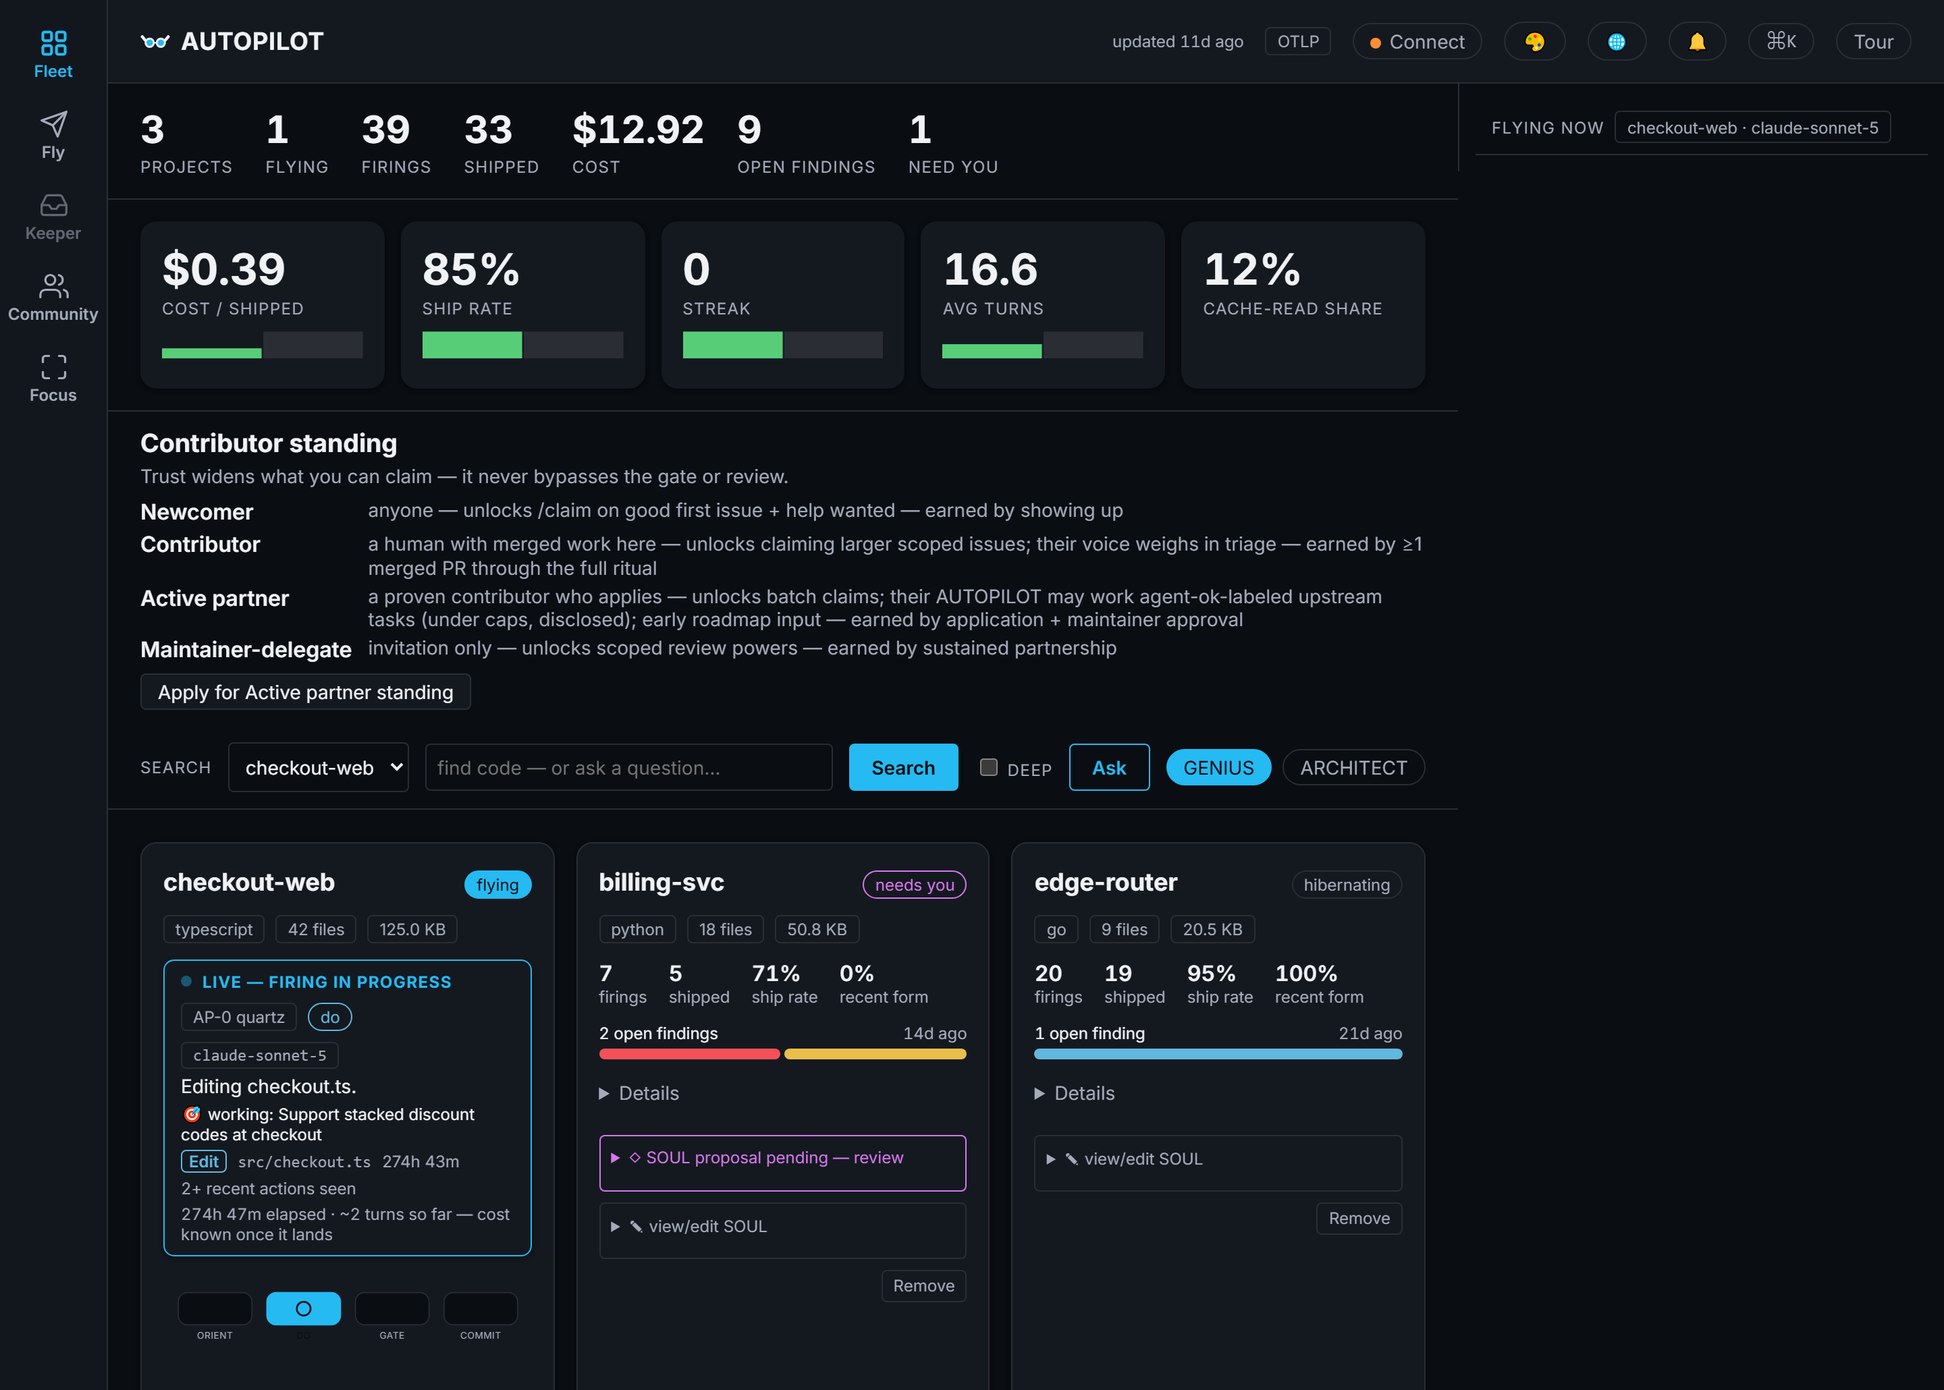
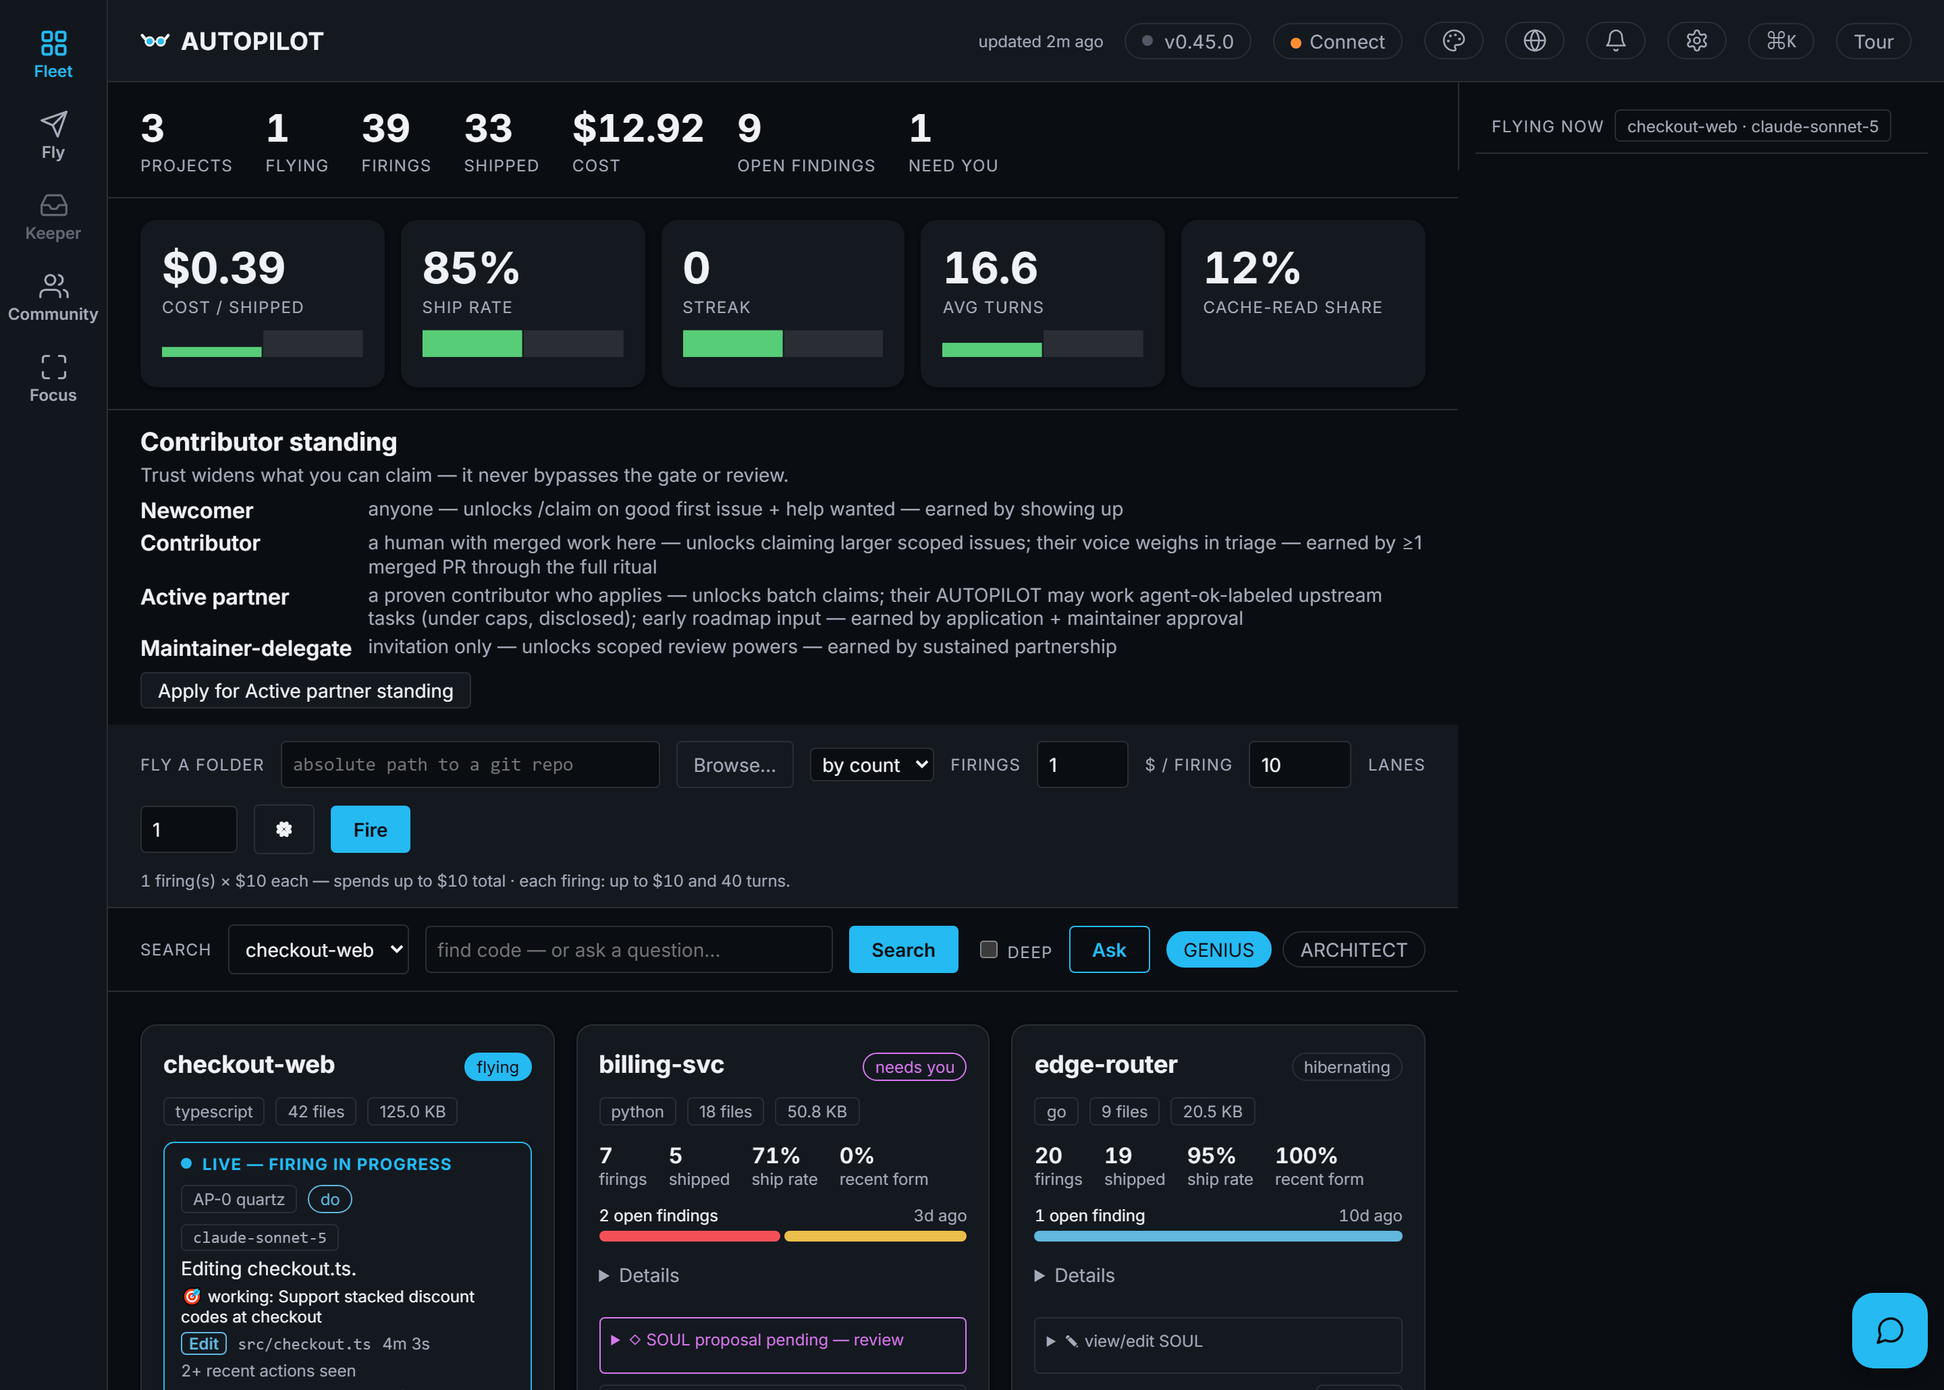
feat(readme): lock on, lucky, fire — the first file sells the flow; the launch button says fire
Epic 0030 slice 1. The README now opens with the promise in one breath (point
it at a folder, press Fire, no prompt on the first launch) and shows the real
flow in three frames of the Fly bar from the populated fixture: a folder
locked on; the Lucky roll with its calibrated plan and the work that fits an
evening; a flight underway at one of four firings. The roll and the flight
are staged through the real client's own routes (the fixture wires neither),
the browser clock is frozen at the fixture's instant, and no operator path
appears. The three shell frames are retaken on the same build (stroke icons,
the version chip, the settings gear). The launch button reads Fire in both
locales, with its tip and the Lucky hint following. The epic records the
first hierarchy finding the frames expose — the Fly bar sits fourth on the
fleet home — and gains slice 5, lock on to a GitHub URL. 277 links checked.

diff --git a/packages/tokens/src/strings.ts b/packages/tokens/src/strings.ts
@@ -341,7 +341,7 @@
  * slice.
  * This slice ends the "`data-tip` hover texts stay English" policy every
  * prior slice restated — for the fly bar, the app's primary action surface.
- * Its persistent controls (Fly it/Pause/Stop, the four form inputs, the
+ * Its persistent controls (Fire/Pause/Stop, the four form inputs, the
  * flight-row status span, the total-progress bar) get `fly*Tip`/
  * `flight*Tip` keys written by `web/features/fly.ts`'s new `setTip()`,
  * which also tags `data-i18n-tip` so `translateDom()`'s new fourth
@@ -587,7 +587,7 @@ const EN_STRINGS = {
   stopAtTotal: 'Stop at total $',
   perFiringBudget: '$ / firing',
   lanes: 'Lanes',
-  flyIt: 'Fly it',
+  flyIt: 'Fire',
   flying: 'Flying…',
   queued: 'Queued…',
   resume: 'Resume',
@@ -1461,13 +1461,13 @@ const EN_STRINGS = {
   resumeFlightOn: 'Resume the flight on {name}',
   flyLuckyAria: "I'm feeling lucky — probe this machine and fill a calibrated launch",
   flyLuckyTip:
-    'Probes this machine (CPU, RAM, cores) and the board, then fills Lanes/Firings/$ with a launch sized to what the computer can carry right now. Filling only — Fly it stays your click.',
+    'Probes this machine (CPU, RAM, cores) and the board, then fills Lanes/Firings/$ with a launch sized to what the computer can carry right now. Filling only — Fire stays your click.',
   luckyNoAnswer: 'Lucky roll failed — no answer from the server.',
   luckyDashboardDown: 'Lucky roll failed — is the dashboard up?',
   luckyNotNow: '🍀 Not now: {reason}',
   luckyNoPlan: 'no plan',
   luckyPlanReady: 'plan ready',
-  luckyPressFlyIt: '🍀 {reason} — press Fly it to launch.',
+  luckyPressFlyIt: '🍀 {reason} — press Fire to launch.',
   luckyFitTitle: '🍀 Work that fits you',
   luckyFitAttentionAria: 'How much attention you have',
   luckyFitEvening: 'one evening',
@@ -1895,7 +1895,7 @@ export const STRINGS: Readonly<Record<LocaleName, Readonly<Record<StringKey, str
     stopAtTotal: 'עצור בסכום כולל של $',
     perFiringBudget: '$ / הפעלה',
     lanes: 'נתיבים',
-    flyIt: 'טוס!',
+    flyIt: 'אש!',
     flying: 'בטיסה…',
     queued: 'בתור…',
     resume: 'המשך',
@@ -2528,13 +2528,13 @@ export const STRINGS: Readonly<Record<LocaleName, Readonly<Record<StringKey, str
     resumeFlightOn: 'חידוש הטיסה על {name}',
     flyLuckyAria: 'יש לי מזל — בדיקת המחשב הזה ומילוי שיגור מכויל',
     flyLuckyTip:
-      'בודק את המחשב הזה (מעבד, זיכרון, ליבות) ואת הלוח, ואז ממלא נתיבים/הפעלות/$ בשיגור בגודל שהמחשב יכול לשאת כרגע. מילוי בלבד — "טוס!" נשאר הלחיצה שלכם.',
+      'בודק את המחשב הזה (מעבד, זיכרון, ליבות) ואת הלוח, ואז ממלא נתיבים/הפעלות/$ בשיגור בגודל שהמחשב יכול לשאת כרגע. מילוי בלבד — "אש!" נשאר הלחיצה שלכם.',
     luckyNoAnswer: 'הגרלת המזל נכשלה — אין תשובה מהשרת.',
     luckyDashboardDown: 'הגרלת המזל נכשלה — האם לוח הבקרה פועל?',
     luckyNotNow: '🍀 לא עכשיו: {reason}',
     luckyNoPlan: 'אין תוכנית',
     luckyPlanReady: 'התוכנית מוכנה',
-    luckyPressFlyIt: '🍀 {reason} — לחצו על "טוס!" כדי לשגר.',
+    luckyPressFlyIt: '🍀 {reason} — לחצו על "אש!" כדי לשגר.',
     luckyFitTitle: '🍀 עבודה שמתאימה לכם',
     luckyFitAttentionAria: 'כמה קשב יש לכם',
     luckyFitEvening: 'ערב אחד',

diff --git a/apps/dashboard/src/web/shell.ts b/apps/dashboard/src/web/shell.ts
@@ -4553,7 +4553,7 @@ ${contextRailHtml(project)}
       <label for="fly-lanes" data-i18n="lanes">Lanes</label>
       <input type="number" id="fly-lanes" name="lanes" min="1" max="8" value="1" />
       <button type="button" id="fly-lucky" aria-label="I'm feeling lucky — probe this machine and fill a calibrated launch" data-i18n-aria="flyLuckyAria"><svg viewBox="0 0 24 24" aria-hidden="true" focusable="false" fill="currentColor"><path d="M12 11.5C9.8 9.6 7.6 8.8 7.7 6.6 7.8 4.6 10.2 3.9 12 6.1 13.8 3.9 16.2 4.6 16.3 6.6 16.4 8.8 14.2 9.6 12 11.5Z"/><path d="M12 11.5C9.8 9.6 7.6 8.8 7.7 6.6 7.8 4.6 10.2 3.9 12 6.1 13.8 3.9 16.2 4.6 16.3 6.6 16.4 8.8 14.2 9.6 12 11.5Z" transform="rotate(90 12 12)"/><path d="M12 11.5C9.8 9.6 7.6 8.8 7.7 6.6 7.8 4.6 10.2 3.9 12 6.1 13.8 3.9 16.2 4.6 16.3 6.6 16.4 8.8 14.2 9.6 12 11.5Z" transform="rotate(180 12 12)"/><path d="M12 11.5C9.8 9.6 7.6 8.8 7.7 6.6 7.8 4.6 10.2 3.9 12 6.1 13.8 3.9 16.2 4.6 16.3 6.6 16.4 8.8 14.2 9.6 12 11.5Z" transform="rotate(270 12 12)"/><path d="M12.5 12.5c.9 2.7 2 4.5 3.6 5.9l-1.1 1.1c-1.8-1.6-3.1-3.7-4-6.5Z"/></svg></button>
-      <button type="submit" id="fly-go" data-i18n="flyIt">Fly it</button>
+      <button type="submit" id="fly-go" data-i18n="flyIt">Fire</button>
       <button type="button" id="fly-pause" data-i18n="pause" hidden>Pause</button>
       <button type="button" id="fly-stop" data-i18n="stop" hidden>Stop</button>
       <span class="fly-status" id="fly-status" role="status" aria-live="polite"></span>

diff --git a/apps/dashboard/test/web/multi-flight-cards.test.ts b/apps/dashboard/test/web/multi-flight-cards.test.ts
@@ -171,7 +171,7 @@ describe('multi-flight fly bar (epic slice 4/6)', () => {
     const goEl = document.getElementById('fly-go') as HTMLButtonElement;
     expect(folderEl.disabled).toBe(false);
     expect(goEl.disabled).toBe(false);
-    expect(goEl.textContent).toBe('Fly it');
+    expect(goEl.textContent).toBe('Fire');
   });
 
   it('disables Fly it only once the TYPED folder itself is already running', async () => {

diff --git a/README.md b/README.md
@@ -18,15 +18,18 @@
   <a href="https://github.com/M-A-S-T-E-R-M-I-N-D/AUTOPILOT/discussions"><img src="https://img.shields.io/badge/discussions-welcome-blueviolet" alt="Discussions welcome"></a>
 </p>
 
-**AUTOPILOT is an autonomous AI coding agent for [Claude Code](https://docs.anthropic.com/en/docs/claude-code): point
-your Claude account at any repo — it locks on, backs it up, understands it, and flies it**: shipping gated, verified
-work; measuring itself; surviving quota limits; and surfacing the human-only calls for your approval.
+**Point AUTOPILOT at a folder. Press Fire.** It orients itself in your repo, picks the most valuable thing it can
+finish, does it, runs *your own* gate, commits when green, and tells you what happened — again and again, inside the
+budget you set. There is no prompt to write on the first launch: the mission is the code, the board, and the docs
+already in the folder. It flies on your own Claude subscription through the local
+[Claude Code](https://docs.anthropic.com/en/docs/claude-code) CLI — no API key, no per-token bill — and nothing lands
+unverified, nothing phones home.
 
-A standalone, open-source, cross-platform TypeScript agent. It locks onto a project folder, researches and
-understands it, stands up its own control panel, then flies the repo — improving it, finding bugs, closing security
-holes, documenting, charting, detecting anomalies, and managing versions. A local web dashboard drives it all.
-Multi-project. Optional local (Ollama) models. One-command install from zero — and it **builds itself**: most of
-this repo's commits were shipped by AUTOPILOT's own agent fleets, with the telemetry to prove it.
+AUTOPILOT is a standalone, open-source, cross-platform TypeScript agent with a local web dashboard. It locks onto a
+project folder, backs it up, learns it, and flies it — improving, fixing, closing security holes, documenting,
+charting, and versioning — one gated **firing** at a time, or in parallel fleets of git-worktree lanes. Multi-project.
+Optional local (Ollama) models. One-command install from zero — and it **builds itself**: most of this repo's commits
+were shipped by its own fleets, with the telemetry to prove it.
 
 Author / brand: **1337 · REL AZEUS · MΔSTERMIND** · License: **Apache-2.0** · No private data — ever. Built on the
 shoulders of 487 open-source projects — see [`THANKS.md`](THANKS.md) and
@@ -59,6 +62,26 @@ shoulders of 487 open-source projects — see [`THANKS.md`](THANKS.md) and
 > **1.0.0 ships at the public-launch milestone (M9 doctrine — [`docs/RELEASING.md`](docs/RELEASING.md)); until then,
 > every release is an alpha of a system that flies itself — treat it with a pilot's respect.**
 
+## Lock on · Lucky · Fire
+
+**1. Lock on.** Type or browse to a folder — any git repo, including a clone of any GitHub project. That is the
+whole setup: no prompt, no config file, no YAML. (Pasting a GitHub URL and letting AUTOPILOT clone it is on the
+board — [epic 0030](docs/epics/0030-lock-on-and-fire.md).)
+
+![The Fly bar with a folder locked on and the Fire button](docs/screens/lock-on.png)
+
+**2. Lucky (optional).** Press 🍀 and AUTOPILOT reads *this machine* (CPU, RAM, cores) and *this board*, sizes a
+launch the computer can actually carry, and lists the work that fits the attention you have — an evening, a day, a
+week. It only fills the form; the launch stays your click.
+
+![The Lucky roll: a calibrated plan and the work that fits you](docs/screens/lucky.png)
+
+**3. Fire.** One firing is one gated attempt at one task: orient → do → gate → commit, or revert. Watch the
+progress, pause or stop at any moment; every dollar and every verdict is recorded, and the merge to `main` stays
+your click.
+
+![A flight underway: one of four firings shipped, a quarter of the budget spent](docs/screens/fire.png)
+
 ## Start here (2 minutes, from nothing to a live dashboard)
 
 ```bash
@@ -75,8 +98,8 @@ cd AUTOPILOT
    pnpm dashboard:start    # → http://127.0.0.1:4317 (localhost-only, hardened)
    ```
 4. **Fly your first mission** — the built-in calculator sample ships with 12 deliberately-red acceptance tests and
-   a written mission ([`samples/calculator/MISSION.md`](samples/calculator/MISSION.md)). In the dashboard's Fly
-   bar, point the folder at `samples/calculator`, click **Fly it**, and watch the agent take it 0 → 12/12 green —
+   a written mission ([`samples/calculator/MISSION.md`](samples/calculator/MISSION.md)). Lock the dashboard's
+   Fly bar onto `samples/calculator`, press **Fire**, and watch the agent take it 0 → 12/12 green —
    the same arc documented honestly (including what went wrong) in
    [`docs/CASE-STUDIES/calculator.md`](docs/CASE-STUDIES/calculator.md). Prefer not to spend anything yet?
    `scripts/launchers/FLY-DASHBOARD.cmd` runs a scripted **$0 demo flight** — real engine loop, gate, telemetry, no
@@ -182,8 +205,9 @@ regenerated by the flights themselves. No claims without a paper trail.
 The dashboard below is rendered from the deterministic demo fixture (`scripts/launchers/DEMO-DASHBOARD.cmd` seeds it in one click) — real server, real client, no live account needed.
 
 **The fleet home — the app shell**: subjects on a rail (a bottom bar on a phone), the fleet's totals and
-tiles, every project as a card with its live firing, and the context rail beside it all for who is flying now
-*(dark)*:
+tiles, the Fly bar, every project as a card with its live firing, and the context rail beside it all for who is
+flying now. In the masthead: the version chip that rebuilds to the latest release in one click, and the settings
+gear — text size, font, spacing, motion, and the terminal theme's phosphor — with one Reset *(dark)*:
 
 ![AUTOPILOT fleet dashboard, dark theme](docs/screens/fleet-dark.png)
 

diff --git a/docs/epics/0030-lock-on-and-fire.md b/docs/epics/0030-lock-on-and-fire.md
@@ -5,7 +5,7 @@ SPDX-License-Identifier: Apache-2.0
 
 # 0030. Lock on and fire — the first file a user reads, the real flow in pictures, and the hierarchy behind it
 
-Status: Draft (2026-09-13).
+Status: Active (2026-09-13). Slice 1 shipped the same day.
 
 ## The asks (operator, 2026-09-13)
 
@@ -30,11 +30,15 @@ the attention you have (an evening, a day, a week).
 
 ## Slices
 
-1. **The selling first file.** README.md opens with the promise above, then
-   three real screenshots from the populated fixture: (1) the fleet home with the
-   Fly bar — a folder locked on, budget, Fire; (2) the Lucky shortlist under the
-   bar; (3) a live firing in progress with its phase rail. Captured at 1440×1030
-   @2× like the existing `docs/screens`, dark theme, no operator paths.
+1. **Shipped 2026-09-13 — the selling first file.** README.md opens with the
+   promise above, then three real frames of the Fly bar from the populated
+   fixture (`docs/screens/lock-on.png`, `lucky.png`, `fire.png`): a folder
+   locked on; the Lucky roll with its plan and shortlist (the roll and the
+   flight staged through the real client's own routes, since the fixture wires
+   neither); a flight underway at one of four. Captured at 1440×1030 @2×, dark,
+   the browser clock frozen at the fixture's instant, no operator paths. The
+   launch button now reads **Fire** in both locales (`flyIt`), and the three
+   shell frames were retaken on the same build.
 2. **The master prompt.** `docs/MASTER-PROMPT.md`: one document that states
    the product's promise, its laws (honest telemetry, additive git, gate before
    commit, one unit per firing, claim contracts), its surfaces (fleet, project,
@@ -44,12 +48,20 @@ the attention you have (an evening, a day, a week).
    the flight laws, and this epic list; then the firing prompt is regenerated
    from it, not the other way round.
 3. **Hierarchy research and rethink.** Study how the best operator consoles
-   (flight decks, CI dashboards, IDE assistants) rank what the eye meets first;
+   (flight decks, CI dashboards, IDE assistants) rank what the eye meets first.
+   Slice 1's frames already show the first defect: on the fleet home the Fly
+   bar — the product's one verb — sits fourth, under the totals, the tiles and
+   "Contributor standing"; it belongs where the eye lands first.
+   Then
    write `docs/HIERARCHY.md`: the order of subjects, the size of each, the
    fields each card carries and drops, the phone and desktop variants — and a
    census test that pins the order. Then patch the shell to it.
 4. **Release.** The README, the screenshots and the master prompt land in one
    minor release whose notes read like the first file.
+5. **Lock on to a GitHub URL.** The Fly bar accepts a repository URL, clones it
+   into the workspace folder (a preview/execute pair under the identity gate),
+   then locks on as if the folder had been typed — the README's "lock on a
+   folder or a GitHub project" made literal.
 
 ## Related
 

diff --git a/docs/epics/README.md b/docs/epics/README.md
@@ -96,4 +96,4 @@ Links to the research/plan doc(s), ADRs, or board items this epic distills.
 | [0027](0027-the-envoy.md) | The envoy — the fleet's autonomous, critical representative in public | Draft |
 | [0028](0028-busy-states.md) | Busy states — the ritual scrim: acknowledge, show real progress, hold writes, always an escape | Active |
 | [0029](0029-settings-and-the-masthead.md) | Settings and the masthead — one gear, icons not emoji, AAA within reach, GitHub as a connection | Active |
-| [0030](0030-lock-on-and-fire.md) | Lock on and fire — the selling first file, the real flow in pictures, the hierarchy behind it | Draft |
+| [0030](0030-lock-on-and-fire.md) | Lock on and fire — the selling first file, the real flow in pictures, the hierarchy behind it | Active |

diff --git a/docs/RUNBOOK.md b/docs/RUNBOOK.md
@@ -589,7 +589,7 @@ no queued tasks, free RAM is under the 4 GB floor, or CPU is above 85% — and a
 broken probe answers that same refusal shape rather than a 5xx. Every bound is
 printed as one reasoning line so the dice can be audited, and the CPU line
 rides along with the rolled plan as the bar's machine-load hint, not just the
-final lane count. Filling only: **Fly it** stays your click and your quota
+final lane count. Filling only: **Fire** stays your click and your quota
 spend, the same never-auto-launch stance the bar has always had. Born of the
 2026-09-03 incident where a blind 8-lane launch pegged a 12-core box at 99%
 CPU, froze the operator's foreground work, and starved the dashboard into its
